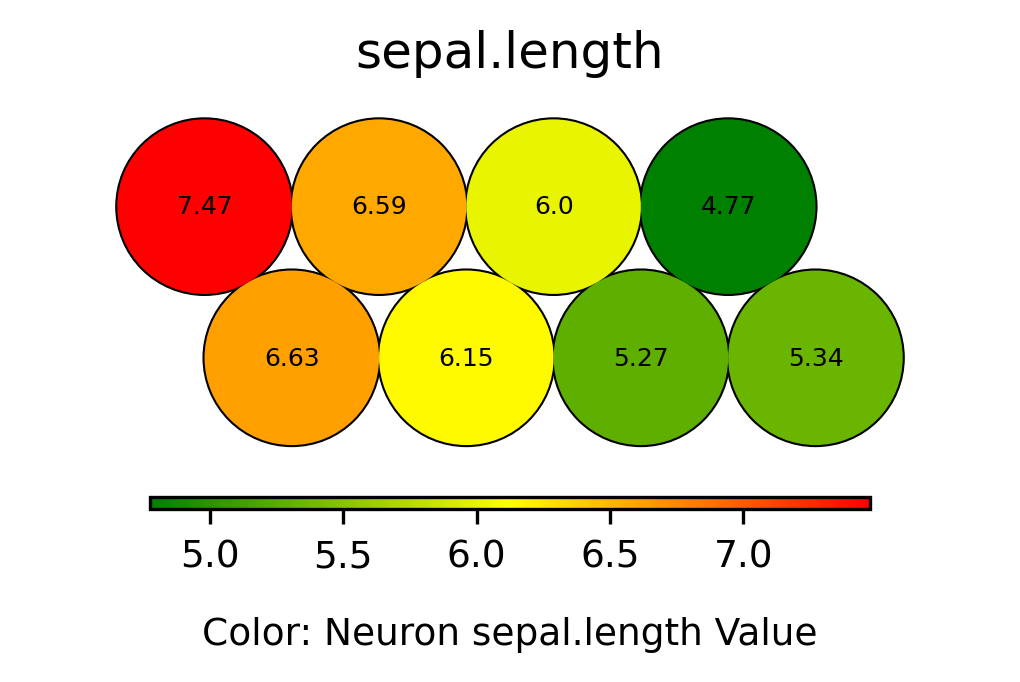
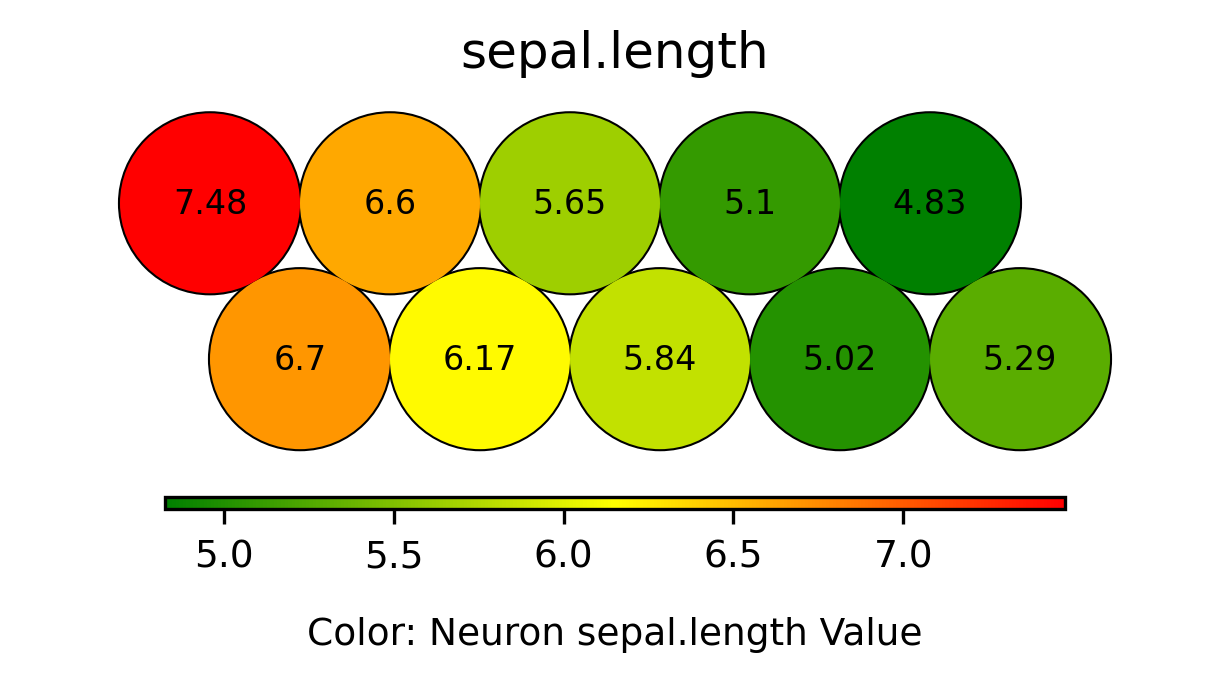
documentation and organization

diff --git a/SOM/utils/SOM.py b/SOM/utils/SOM.py
@@ -64,14 +64,16 @@ class SOM():
     ---------------------------------
      - train_dat (np.ndarray): The raw (unscaled) training data used to fit the SOM.
      - other_dat (np.ndarray): Additional, non-numeric data associated with each data point in 
-      `train_dat`, but not used to train the SOM.
+            `train_dat`, but not used to train the SOM.
+     - train_dat_features (List[str]): A list of feature names from the training data.
+     - other_dat_features (List[str]): A list of feature names from the additional data.
      - xdim (int): The number of neurons in the x-dimension of the SOM grid.
      - ydim (int): The number of neurons in the y-dimension of the SOM grid.
      - topology (str): The topology of the SOM grid ('rectangular' or 'hexagonal', associated
-       with 4 and 6 neighbors, respectively).
+            with 4 and 6 neighbors, respectively).
      - neighborhood_fnc (str): The neighborhood function used during training.
      - epochs (int): The number of training epochs (i.e., how many times the dataset is presented 
-       during the training process).
+            during the training process).
      - _scale (Callable): Method for scaling `train_dat` (z-score or min/max)
      - _unscale (Callable): Method for unscaling scaled data (z-score or mimn/max)
 
@@ -95,6 +97,30 @@ class SOM():
         neighborhood_fnc: str,
         epochs: int
     ):
+        
+        """
+        Initialize the Self-Organizing Map (SOM) class with user-defined parameters.
+
+        This constructor sets up the SOM by validating inputs, scaling the training data, and
+        preparing the attributes needed for training and analysis.
+
+        Args:
+            train_dat (pd.DataFrame): A DataFrame containing the numerical training data for the 
+                SOM.
+            other_dat (pd.DataFrame): A DataFrame with non-numeric data associated with each row in
+                `train_dat`, not used for training the SOM but for analysis.
+            scale_method (str): Method for scaling the data; must be either 'zscore' or 'minmax'.
+            x_dim (int): The number of neurons in the x-dimension of the SOM grid. Must be a 
+                positive integer.
+            y_dim (int): The number of neurons in the y-dimension of the SOM grid. Must be a
+                positive integer.
+            topology (str): Topology of the SOM grid; must be 'rectangular' or 'hexagonal'.
+            neighborhood_fnc (str): Neighborhood function to use during training; must be
+                'gaussian' or 'bubble'.
+            epochs (int): Number of epochs (iterations over the dataset) for training the SOM. Must
+                be a positive integer.
+        """
+
         # Input validation
         self._validate_inputs(
             train_dat=train_dat,
@@ -143,34 +169,58 @@ class SOM():
         epochs: int):
 
         """
-        Validates input parameters for the SOM class.
+        Validate the input parameters for initializing the SOM class.
+
+        Ensures that all required inputs meet the expected types, ranges, and formats.
+
+        Args:
+            train_dat (pd.DataFrame): A DataFrame containing the numerical training data for the 
+                SOM.
+            other_dat (pd.DataFrame): A DataFrame with non-numeric data associated with each row in
+                `train_dat`, not used for training the SOM but for analysis.
+            scale_method (str): Method for scaling the data; must be either 'zscore' or 'minmax'.
+            x_dim (int): The number of neurons in the x-dimension of the SOM grid. Must be a 
+                positive integer.
+            y_dim (int): The number of neurons in the y-dimension of the SOM grid. Must be a
+                positive integer.
+            topology (str): Topology of the SOM grid; must be 'rectangular' or 'hexagonal'.
+            neighborhood_fnc (str): Neighborhood function to use during training; must be
+                'gaussian' or 'bubble'.
+            epochs (int): Number of epochs (iterations over the dataset) for training the SOM. Must
+                be a positive integer.
+            
+        Raises:
+            TypeError: If `train_dat` or `other_dat` is not a pandas DataFrame, or if `train_dat`
+                contains non-numeric data.
+            ValueError: If `scale_method`, `topology`, or `neighborhood_fnc` contains invalid
+                values, or if `x_dim`, `y_dim`, or `epochs` are not positive integers.
         """
 
         if not isinstance(train_dat, pd.DataFrame):
             raise TypeError("train_dat must be a pandas DataFrame.")
-        
+
         is_all_numeric = train_dat.dtypes.apply(lambda dtype: np.issubdtype(dtype, np.number)).all()
         if not is_all_numeric:
             raise TypeError("train_dat must contain only numeric values.")
-        
+
         if not isinstance(other_dat, pd.DataFrame):
             raise TypeError("other_dat must be a pandas DataFrame.")
-        
+
         if scale_method not in ["zscore", "minmax"]:
             raise ValueError("scale_method must be 'zscore' or 'minmax'.")
-        
+
         if topology not in ["rectangular", "hexagonal"]:
             raise ValueError("topology must be 'rectangular' or 'hexagonal'.")
-        
+
         if neighborhood_fnc not in ["gaussian", "bubble"]:
             raise ValueError("neighborhood_fnc must be 'gaussian' or 'bubble'.")
-        
+
         if not isinstance(x_dim, int) or x_dim <= 0:
             raise ValueError("x_dim must be a positive integer.")
-        
+
         if not isinstance(y_dim, int) or y_dim <= 0:
             raise ValueError("y_dim must be a positive integer.")
-        
+
         if not isinstance(epochs, int) or epochs <= 0:
             raise ValueError("epochs must be a positive integer.")
 
@@ -185,11 +235,11 @@ class SOM():
         corresponding neurons.
 
         Sets the following attributes:
-            - `map`: The trained MiniSom instance.
-            - `observation_mapping`: Mapping of observations to neurons.
-            - `neuron_coordinates`: Coordinates of neurons in the SOM grid.
-            - `weights_scaled`: Scaled weights of each neuron.
-            - `weights`: Unscaled weights of each neuron.
+            - map: The trained MiniSom instance.
+            - observation_mapping: Mapping of observations to neurons.
+            - neuron_coordinates: Coordinates of neurons in the SOM grid.
+            - weights_scaled: Scaled weights of each neuron.
+            - weights: Unscaled weights of each neuron.
         """
 
         n_samples = self.train_dat_scaled.shape[0]
@@ -238,7 +288,7 @@ class SOM():
             Tuple[np.ndarray, List[np.ndarray]]:
                 - (np.ndarray): The scaled data
                 - (List[np.ndarray]): A list containing the means and standard deviations used for
-                  scaling.
+                    scaling.
         """
 
         means = np.mean(self.train_dat, axis=0)
@@ -255,7 +305,7 @@ class SOM():
             Tuple[np.ndarray, List[np.ndarray]]:
                 - np.ndarray: The scaled data
                 - List[np.ndarray]: A list containing the minimum and maximum values used for
-                  scaling.
+                    scaling.
         """
 
         min_vals = np.min(self.train_dat, axis=0)
@@ -270,7 +320,7 @@ class SOM():
 
         Args:
             scaled_data (np.ndarray): Scaled data, often neuron weights returned from the training
-            process.
+                process.
 
         Returns:
             np.ndarray: The unscaled data.
@@ -287,7 +337,7 @@ class SOM():
 
         Args:
             scaled_data (np.ndarray): Scaled data, often neuron weights returned from the training
-            process.
+                process.
 
         Returns:
             np.ndarray: The unscaled data.
@@ -304,7 +354,7 @@ class SOM():
 
         Returns:
             np.ndarray: An array where each element corresponds to the ID of the winning neuron for
-            the respective data point.
+                the respective data point.
         """
 
         # Get the x-y coordiantes of the winning neurons
@@ -327,7 +377,7 @@ class SOM():
 
         Returns:
             pd.DataFrame: A DataFrame containing the x and y coordinates of each neuron, where the
-            first column corresponds to x and the second column corresponds to y.
+                first column corresponds to x and the second column corresponds to y.
         """
 
         HEX_CORRECTION = np.sqrt(3)/2
@@ -351,11 +401,11 @@ class SOM():
     def _get_weights(self):
 
         """
-        Retrieve the weights of each neuron after training.
+        Retrieve the weight vector of each neuron after training.
 
         Returns:
             pd.DataFrame: A DataFrame where each row corresponds to a neuron's weight vector and 
-            the number of columns equal the dimensionality of the original dataset.
+                the number of columns equal the dimensionality of the original dataset.
         """
 
         weights_scaled = [
@@ -381,7 +431,7 @@ class SOM():
         organization of the SOM. By examining these plots, you can:
             - Identify clusters and trends in specific features.
             - Compare how different features vary across the grid, potentially highlighting
-              relationships/correlations between features.
+                relationships/correlations between features.
 
         Args:
             output_dir (str): The directory where the component plane plots will be saved. 
@@ -478,7 +528,7 @@ class SOM():
 
         Args:
             output_dir (str): The directory where the categorical data distribution plots will be
-            saved.
+                saved.
 
         Saves:
             One plot per categorical feature as a .png file in the specified directory. Each plot
@@ -579,7 +629,7 @@ class SOM():
 
         Args:
             print_neuron_idx (bool, optional): Whether to display the neuron indices on the plot. 
-            Defaults to False.
+                Defaults to False.
 
         Returns:
             Tuple[plt.Figure, plt.Axes]: The matplotlib figure and axis objects for the plot.
@@ -642,9 +692,9 @@ class SOM():
             x (float): The x-coordinate of the circle's center.
             y (float): The y-coordinate of the circle's center.
             fill_color (Union[Tuple[float, float, float, float], str]): The color to fill the
-            circle with.
+                circle with.
             edge_color (Union[Tuple[float, float, float, float], str]): The color of the circle's
-            edge.
+                edge.
             text (str, optional): Text to annotate neuron.
             radius (float, optional): The radius of the circle. Defaults to 0.5.
         """
@@ -709,7 +759,7 @@ class SOM():
         Args:
             fig (matplotlib.figure.Figure): The figure object where the colorbar will be added.
             value_range (Tuple[float, float]): The range of values (min, max) represented by the
-            colorbar.
+                colorbar.
             cmap (mcolors.LinearSegmentedColormap): The colormap to use for the colorbar.
             label (str): Name of feature
         """
@@ -766,6 +816,17 @@ class SOM():
     def _check_output_path(
         path: str
     ):
+        
+        """
+        Ensure the specified output path exists. If the directory does not exist, it is created.
+
+        Args:
+            path (str): The directory path to check or create.
+
+        Raises:
+            OSError: If the directory cannot be created due to permissions or other errors.
+        """
+
         if not os.path.exists(path):
             os.makedirs(path)
 
@@ -781,7 +842,7 @@ class SOM():
 
         Returns:
             float: The topographic error, ranging from 0 (perfect preservation) to 1 (poor 
-            preservation).
+                preservation).
         """
 
         if self.map is None:
@@ -812,30 +873,42 @@ class SOM():
         return topographic_error_count / len(self.train_dat_scaled)
 
 
-    def calculate_quantization_error(self) -> float:
+    def calculate_percent_variance_explained(self) -> float:
 
         """
-        Calculate the quantization error of the trained SOM.
+        Calculate the Percent Variance Explained (PVE) for the trained SOM.
 
-        Quantization error is the average distance between each data point and its Best Matching 
-        Unit (BMU) in the SOM grid. Lower values indicate better representation of the data.
+        PVE is the proportion of the total variance in the data explained by the SOM.
+        It is computed as: PVE = ((TSS - WCSS) / TSS) * 100, where:
+            - TSS = total sum of squares
+            - WCSS = within cluster (i.e., within neuron) sum of squares
 
         Returns:
-            float: The quantization error.
+            float: Percent Variance Explained (PVE)
         """
 
         if self.map is None:
             raise RuntimeError(
-                "SOM has not been trained. Call `train_map` before calculating quant error."
+                "SOM has not been trained. Call `train_map` before calculating PVE."
             )
 
-        quantization_error = 0
+        # Compute the mean of the dataset
+        global_mean = self.train_dat_scaled.mean(axis=0)
+
+        # Compute Total Sum of Squares (TSS)
+        tss = np.sum(np.linalg.norm(self.train_dat_scaled - global_mean, axis=1) ** 2)
+
+        # Compute Within-Cluster Sum of Squares (WCSS)
+        wcss = 0
         for idx in np.arange(len(self.train_dat_scaled)):
             bmu = self.observation_mapping[idx]
             bmu_weight = self.weights_scaled.iloc[bmu, :].to_numpy()
-            quantization_error += np.linalg.norm(self.train_dat_scaled[idx, :] - bmu_weight)
+            wcss += np.linalg.norm(self.train_dat_scaled[idx, :] - bmu_weight) ** 2
 
-        return quantization_error / len(self.train_dat_scaled)
+        # Calculate PVE
+        pve = ((tss - wcss) / tss) * 100
+
+        return pve
 
 
     def _are_nodes_adjacent(
@@ -848,8 +921,8 @@ class SOM():
         Check if two neurons in the SOM grid are adjacent.
 
         Args:
-            bmu1 (Tuple[int, int]): Coordinates of the first neuron.
-            bmu2 (Tuple[int, int]): Coordinates of the second neuron.
+            bmu1 (int): ID of the first neuron.
+            bmu2 (int): ID of the second neuron.
 
         Returns:
             bool: True if the neurons are neighbors, False otherwise.

diff --git a/SOM/examples/som_example_iris.py b/SOM/examples/som_example_iris.py
@@ -10,8 +10,8 @@ sys.path.append(os.path.abspath(os.path.join(os.path.dirname(__file__), '..', '.
 from SOM.utils.som import SOM
 
 # Load data
-#data = pd.read_csv("../../data/iris.csv")
-data = pd.read_csv("data/iris.csv")
+data = pd.read_csv("../../data/iris.csv")
+#data = pd.read_csv("data/iris.csv")
 train_dat = data.iloc[:, 0:4]
 other_dat = data.iloc[:, 4].to_frame()
 
@@ -20,21 +20,21 @@ som = SOM(
     train_dat=train_dat,
     other_dat=other_dat,
     scale_method="minmax",
-    x_dim=4,
+    x_dim=5,
     y_dim=2,
     topology="hexagonal",
     neighborhood_fnc="gaussian",
-    epochs=100
+    epochs=17
 )
 
 # Train SOM Map
 som.train_map()
 
 # Get fit metrics
-quantization_error = som.calculate_quantization_error()
+pve = som.calculate_percent_variance_explained()
 topographic_error = som.calculate_topographic_error()
 
-print(f"Quantization error = {quantization_error}")
+print(f"Percent variance explained = {pve}%")
 print(f"Topographic error = {topographic_error}")
 
 # Plot component planes
